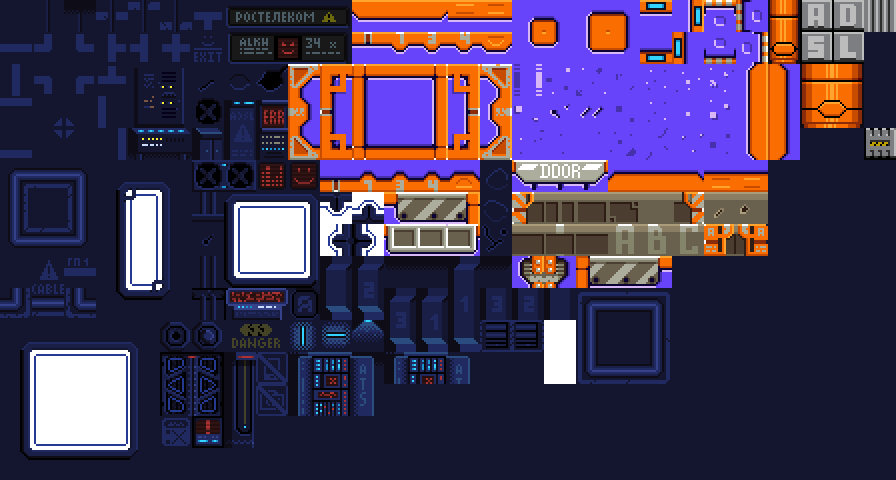
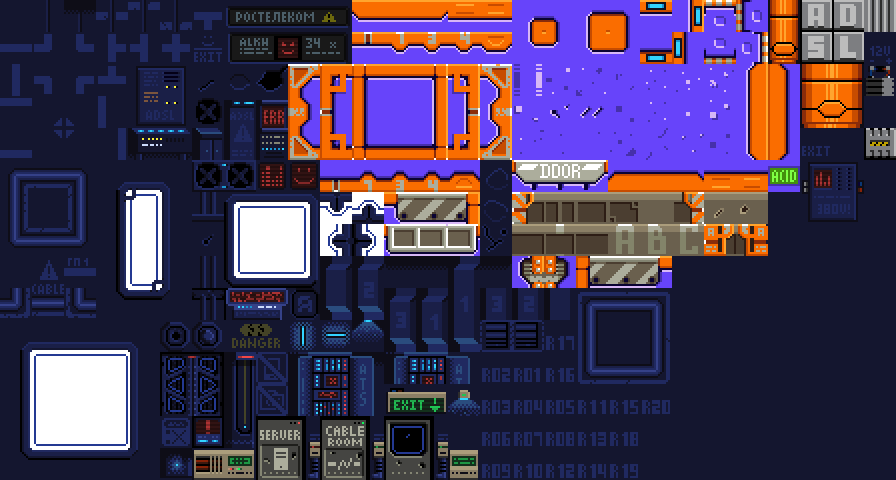
optimization

diff --git a/src/js/components/gameObjectFactory.js b/src/js/components/gameObjectFactory.js
@@ -94,3 +94,24 @@ AdslJumper.GameObjectFactory.prototype.createSparks = function () {
 
     return gameObject;
 };
+
+AdslJumper.GameObjectFactory.prototype.createExitLabel = function (x, y) {
+    var gameObject = this.game.add.sprite(x, y, "atlas_2", "doorExitLabel1.png");
+    gameObject.animations.add("default", [
+        "doorExitLabel2.png",
+        "doorExitLabel3.png",
+        "doorExitLabel4.png",
+        "doorExitLabel5.png",
+        "doorExitLabel6.png",
+        "doorExitLabel7.png",
+        "doorExitLabel8.png",
+        "doorExitLabel9.png",
+        "doorExitLabel10.png",
+        "doorExitLabel11.png",
+        "doorExitLabel12.png",
+        "doorExitLabel13.png",
+        "doorExitLabel14.png"
+    ], 16, true);
+
+    return gameObject;
+};
